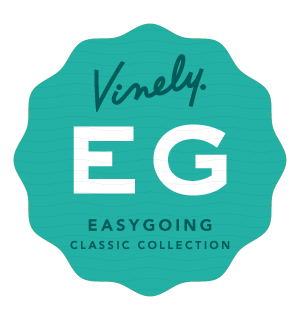
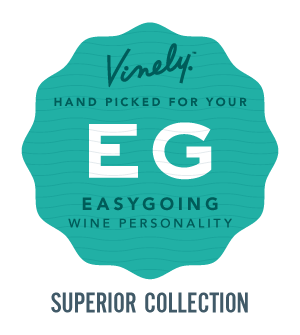
Update new graphic badges

diff --git a/main/templates/main/start_order.html b/main/templates/main/start_order.html
@@ -33,9 +33,9 @@
         {% if product.cart_tag == product_levels.0 %}
           <div class="product-badge from-75"></div>
         {% elif product.cart_tag == product_levels.1 %}
-          <div class="product-badge from-125"></div>
+          <div class="product-badge from-120"></div>
         {% elif product.cart_tag == product_levels.2 %}
-          <div class="product-badge from-220"></div>
+          <div class="product-badge from-225"></div>
         {% endif %}
           <div class="product-wine">
             <!-- 

diff --git a/static/css/winedora.css b/static/css/winedora.css
@@ -397,6 +397,14 @@ legend {
  .product-badge.from-220 {
     background: url('../img/btn_pie_from220.png') no-repeat right top;
  }
+ .product-badge.from-120 {
+    background: url('../img/btn_pie_from120.png') no-repeat right top;
+ }
+
+.product-badge.from-225 {
+    background: url('../img/btn_pie_from225.png') no-repeat right top;
+ }
+ 
  .product-description {
   width: 300px;
   margin-top: 15px;

diff --git a/main/templates/main/get_started.html b/main/templates/main/get_started.html
@@ -43,7 +43,7 @@
 
         <div class="control-group">
           <div class="controls center">
-            <a href="{% url sign_up 2 %}"><img src="{% static "img/btn_pie_socializeme.png" %}"></a>
+            <a href="{% url sign_up 2 %}"><img src="{% static "img/btn_pie_makemeahost.png" %}"></a>
           </div>
         </div>
       {% endif %}
